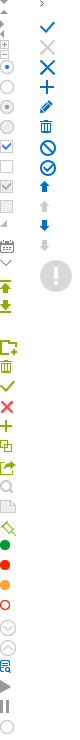
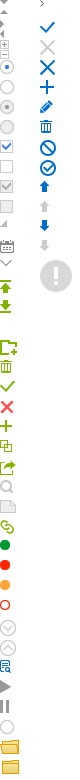
关联检验、个人信息视图、bug修复

Changed region(s): [[0.0, 0.0, 0.25, 0.9946], [0.5, 0.0311, 0.9, 0.4041]]

diff --git a/webApp/projects/tpls/project/plan/project.plan.property.inspection.html b/webApp/projects/tpls/project/plan/project.plan.property.inspection.html
@@ -1,4 +1,8 @@
 <div class="contentBox">
+    <div style="padding:10px;border-bottom: 1px solid #ccc;width:100%;">
+        <span class="myBtn myBtn-default"><em class="myIcon-link-check"></em>关联校验</span>
+        <span class="myBtn myBtn-default exportList" style="display: none;"><em class="myIcon-download" ></em>导出列表</span>
+    </div>
     <div class="title">计划节点未关联图元（<span class="count">4</span>）</div>
     <table class="tbTop">
         <thead>
@@ -19,4 +23,9 @@
             <tr class="noLoading"></tr>
         </tbody>
     </table>
+    <div class="nullLinkData">
+        <div class="iconLinkBg"></div><br>
+        <span>您还没有进行关联校验</span><br>
+        <a href="javascript:;">点击进行关联校验</a>
+    </div>
 </div>

diff --git a/webApp/bodyContent/js/collections/index.js b/webApp/bodyContent/js/collections/index.js
@@ -11,10 +11,10 @@ App.BodyContent.control= {
 
         var _userInfo=JSON.parse(localStorage.getItem("user"));
 
-        $("#loginName").html(App.Comm.getCookie('OUTSSO_LoginId'));
+        $("#loginName").html(_userInfo.name);
 		$("#uiAccount").html(App.Comm.getCookie('OUTSSO_LoginId'));
         $("#uiPosition").html(_userInfo.position);
-        $("#uiPartment").html();
+        $("#uiPartment").html(_userInfo.org?_userInfo.org[0].name:'');
         $("#uiLogo").attr('src',_userInfo.photoUrl);
         $("#contains").empty();
         new App.BodyContent.App().render(); //渲染框架

diff --git a/webApp/comm/css/myIcon.less b/webApp/comm/css/myIcon.less
@@ -12,6 +12,7 @@
 .myIcon-cancel{background-position: 0px -400px;}
 .myIcon-slanting-right{background-position: 0px -213px;}
 .myIcon-search{background-position: 0px -480px;}
+.myIcon-link-check{background-position: 0px -520px;}
 .myIcon-circle-green{background-position: 0px -536px;}
 .myIcon-play{background-position: 0px -680px;}
 .myIcon-pause{background-position: 0px -700px;}

diff --git a/webApp/projects/less/nullPage.less b/webApp/projects/less/nullPage.less
@@ -40,4 +40,22 @@
 		.bg {
 		}
 	}
+
+}
+
+.nullLinkData{
+	width: 100%;
+	height: 100%;
+	text-align: center;
+	box-sizing: border-box;
+	padding-top: 140px;
+	position: absolute;
+	top: 51px;
+	background: #EEE;
+	& .iconLinkBg{
+		width: 80px;
+		height: 80px;
+		margin:0 auto;
+		background: url('/static/dist/images/projects/images/nullPage.png') no-repeat 0 -800px;
+	}
 }

diff --git a/webApp/index.html b/webApp/index.html
@@ -34,7 +34,7 @@
 
     <div class="userinfo">
         <div class="conatiner">
-            <img id="uiLogo" src="images/u36.png" width="64px" height="85px">
+            <img id="uiLogo" src="" width="64px" height="85px">
             <div class="info">
                 <table>
                     <tr>
